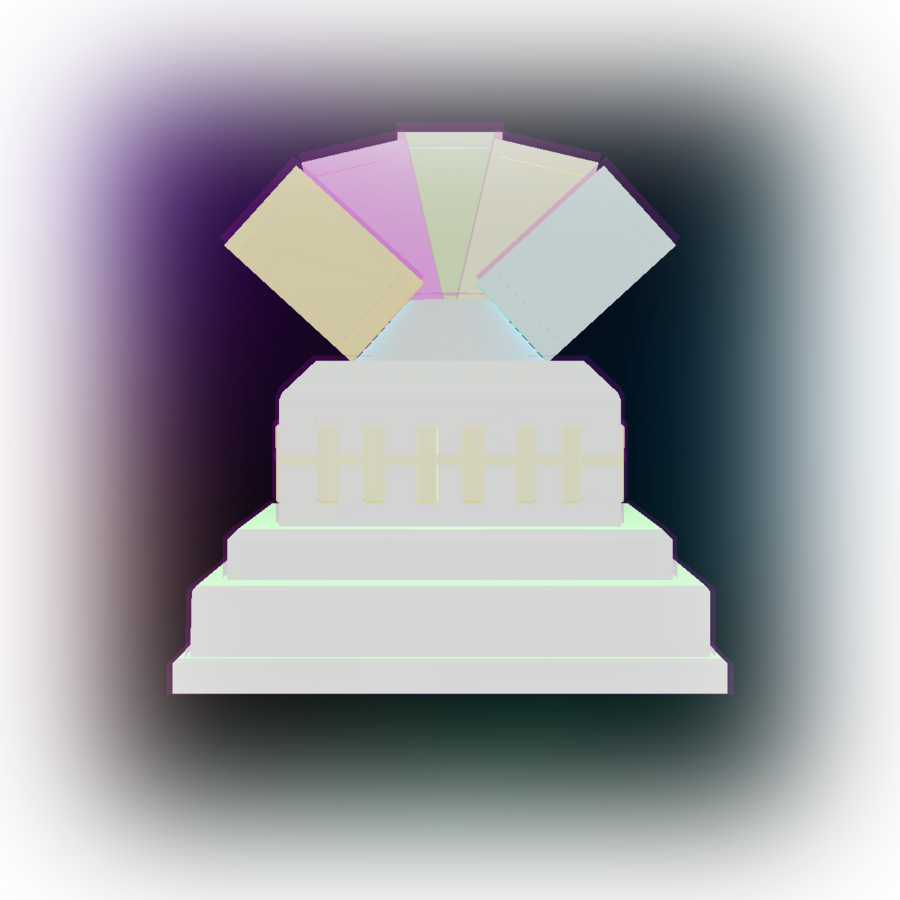
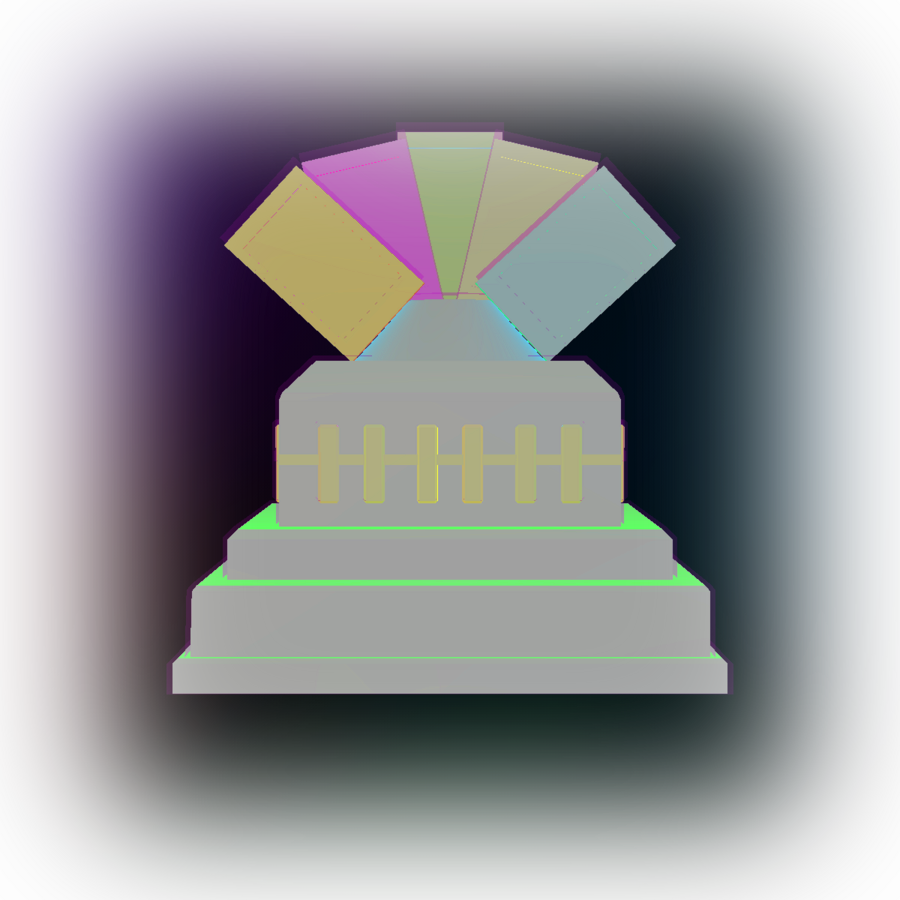
Adjust anniversary highlights and hero render

Changed region(s): [[0.1867, 0.1244, 0.8089, 0.7778]]

diff --git a/cnc-2nd-anniversary-tournament/details.html b/cnc-2nd-anniversary-tournament/details.html
@@ -98,8 +98,8 @@
                         <span class="en">On June 18, 2026, the CNC server reaches its second anniversary. If the first year was about making the server stable, the second year was about making play leave a clearer trace: replays, sound, profiles, banners, and visible contributions.</span>
                     </p>
                     <p>
-                        <span class="ko">WTRec 녹화, 프로필과 배너 시스템, 사운드팩과 BGM 지원, 모바일 환경에서의 한글과 사운드 지원, DWEM과 번역 관련 개선까지 여러 기능이 조금씩 쌓였습니다. 0.34 토너먼트 기간에도 서버와 녹화 봇을 더 적극적으로 운용할 수 있었고, 주간 플레이와 신규 유입도 꾸준히 이어지고 있습니다.</span>
-                        <span class="en">WTRec recording, profiles and banners, sound packs and BGM, mobile Korean and sound support, and steady DWEM and translation improvements have accumulated one by one. During the 0.34 tournament, CNC could support players and recording more actively, and weekly play and new arrivals have remained steady.</span>
+                        <span class="ko">WTRec 녹화, 프로필과 배너 시스템, 사운드팩과 BGM 지원, 모바일 환경에서의 한글과 사운드 지원, DWEM과 번역 관련 개선까지 여러 기능이 조금씩 쌓였고, 주간 플레이와 신규 유입도 꾸준히 이어지고 있습니다.</span>
+                        <span class="en">WTRec recording, profiles and banners, sound packs and BGM, mobile Korean and sound support, and steady DWEM and translation improvements have accumulated one by one, while weekly play and new arrivals have remained steady.</span>
                     </p>
                     <p>
                         <span class="ko">서버 운영을 후원으로 지탱해 주신 분들, 번역으로 한국어 플레이 환경을 함께 다듬어 주신 번역자들께도 깊이 감사드립니다. 사운드팩, 코드, 데이터, 아이디어를 보태 주신 모든 분들의 기여가 올해의 CNC를 만들었습니다.</span>
@@ -149,18 +149,18 @@
                             <span class="en">DWEM SoundSupport expanded for sound packs and branch background music.</span>
                         </p>
                     </a>
-                    <a class="feature-card feature-link-card suit-leaf" href="https://crawl.nemelex.cards" target="_blank" rel="noopener">
-                        <span class="card-label">Mobile</span>
+                    <a class="feature-card feature-link-card suit-leaf" href="https://refracta.github.io/pocketzot-dwem/" target="_blank" rel="noopener">
+                        <span class="card-label">PocketZot-DWEM</span>
                         <h3>
-                            <span class="ko">모바일 조베죽</span>
-                            <span class="en">CNC on mobile</span>
+                            <span class="ko">PocketZot-DWEM</span>
+                            <span class="en">PocketZot-DWEM</span>
                         </h3>
                         <p>
                             <span class="ko">모바일 환경에서도 한글과 사운드를 함께 쓰는 방향으로 개선이 이어졌습니다.</span>
-                            <span class="en">Mobile play kept moving toward Korean text and sound support together.</span>
+                            <span class="en">Mobile play kept moving toward Korean text and sound support through PocketZot-DWEM.</span>
                         </p>
                     </a>
-                    <a class="feature-card feature-link-card suit-gold" href="https://github.com/refracta/dcss-webtiles-extension-module/tree/main/backends/cnc-profiles" target="_blank" rel="noopener">
+                    <a class="feature-card feature-link-card suit-gold" href="https://gall.dcinside.com/board/view/?id=rlike&no=517133" target="_blank" rel="noopener">
                         <span class="card-label">Profile</span>
                         <h3>
                             <span class="ko">프로필과 배너</span>
@@ -171,8 +171,8 @@
                             <span class="en">A banner system now marks contributions, tournament results, and server records.</span>
                         </p>
                     </a>
-                    <a class="feature-card feature-link-card suit-fire" href="https://github.com/refracta/dcss-webtiles-extension-module" target="_blank" rel="noopener">
-                        <span class="card-label">DWEM</span>
+                    <a class="feature-card feature-link-card suit-fire" href="https://github.com/refracta/dcss-webtiles-extension-module/tree/main/modules/translation-module" target="_blank" rel="noopener">
+                        <span class="card-label">TranslationModule</span>
                         <h3>
                             <span class="ko">확장과 번역</span>
                             <span class="en">Modules and translation</span>
@@ -180,17 +180,6 @@
                         <p>
                             <span class="ko">DWEM 모듈, 한글 처리, 번역 관련 개선이 꾸준히 서버 경험을 다듬고 있습니다.</span>
                             <span class="en">DWEM modules, Korean handling, and translation work continue to refine the experience.</span>
-                        </p>
-                    </a>
-                    <a class="feature-card feature-link-card suit-wave" href="https://archive.nemelex.cards/" target="_blank" rel="noopener">
-                        <span class="card-label">0.34</span>
-                        <h3>
-                            <span class="ko">공식 토너먼트 지원</span>
-                            <span class="en">Tournament support</span>
-                        </h3>
-                        <p>
-                            <span class="ko">0.34 토너먼트 기간에는 CNC 서버와 녹화 봇을 더 넓게 운용했습니다.</span>
-                            <span class="en">During the 0.34 tournament, CNC and its recording bot were operated more broadly.</span>
                         </p>
                     </a>
                 </div>